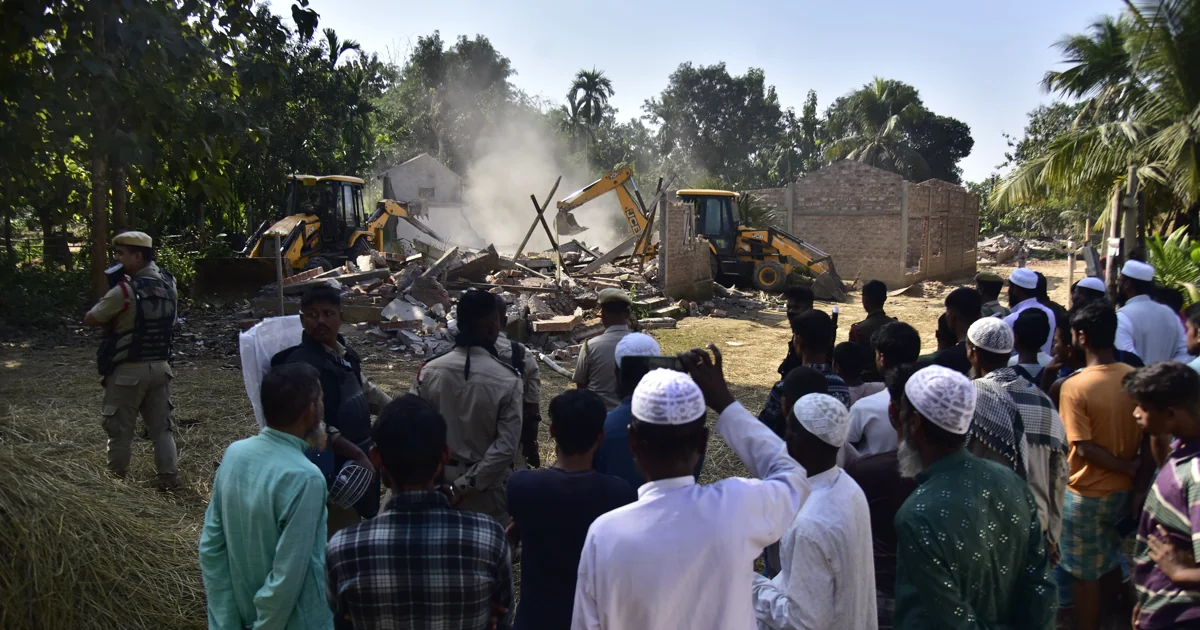
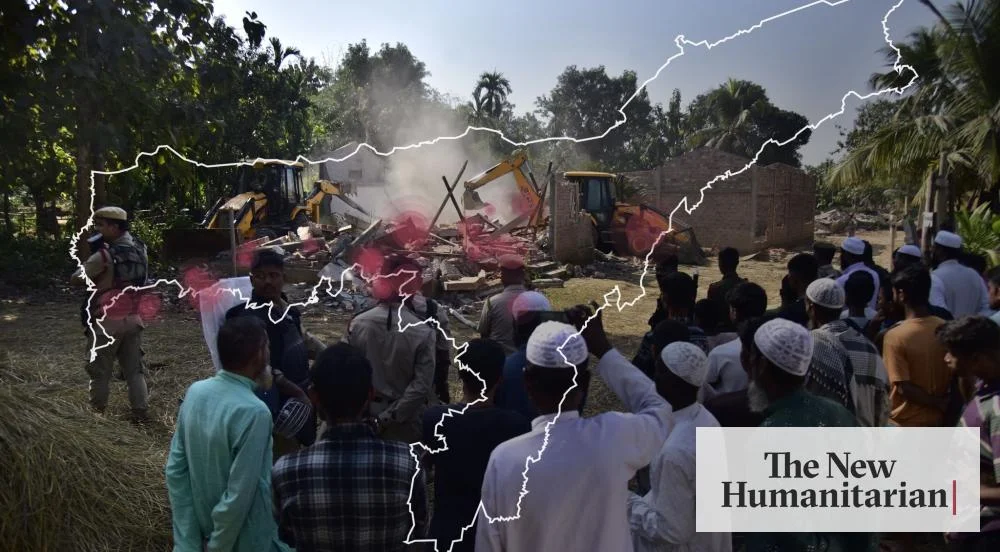
fix(cleared): polish UI details and update social card image
Style: remove gallery card border, tighten scrolly text box padding
Social: replace social share image with Drupal-cropped field photo (1000x552)
Made-with: Cursor

diff --git a/src/routes/cleared/+page.svelte b/src/routes/cleared/+page.svelte
@@ -522,8 +522,8 @@
 		property="og:image"
 		content="{PUBLIC_BASE_URL}/images/cleared/social/cleared-social-share.webp"
 	/>
-	<meta property="og:image:width" content="1200" />
-	<meta property="og:image:height" content="630" />
+	<meta property="og:image:width" content="1000" />
+	<meta property="og:image:height" content="552" />
 	<meta property="og:image:type" content="image/webp" />
 	<meta property="og:url" content="{PUBLIC_BASE_URL}/cleared" />
 

diff --git a/src/lib/components/cleared/DemolitionGallery.svelte b/src/lib/components/cleared/DemolitionGallery.svelte
@@ -104,13 +104,13 @@
 
 	.gallery-card {
 		overflow: hidden;
-		border: 1px solid rgba(0, 0, 0, 0.06);
 		opacity: 0;
 		transform: translateY(20px);
 		transition:
 		opacity 0.5s ease,
 		transform 0.5s ease;
 		transition-delay: var(--delay);
+		/* border: 1px solid rgba(0, 0, 0, 0.06); */
 		/* Marc's note: This is to remove the border radius from the gallery card so it matches TNH design pattern */
 		/* border-radius: 4px; */
 	}

diff --git a/src/lib/components/cleared/scrolly/ScrollyTextBox.svelte b/src/lib/components/cleared/scrolly/ScrollyTextBox.svelte
@@ -81,7 +81,7 @@
 		backdrop-filter: blur(6px);
 		-webkit-backdrop-filter: blur(6px);
 		/* Marc's note: suggestion to balance padding here slightly — a bit less looks more balanced to me? */
-		padding: 1.25rem 1.5rem;
+		padding: 1.25rem;
 		box-shadow: 0 8px 32px rgba(0, 0, 0, 0.35);
 		opacity: 0.75;
 		transform: translateY(8px);
